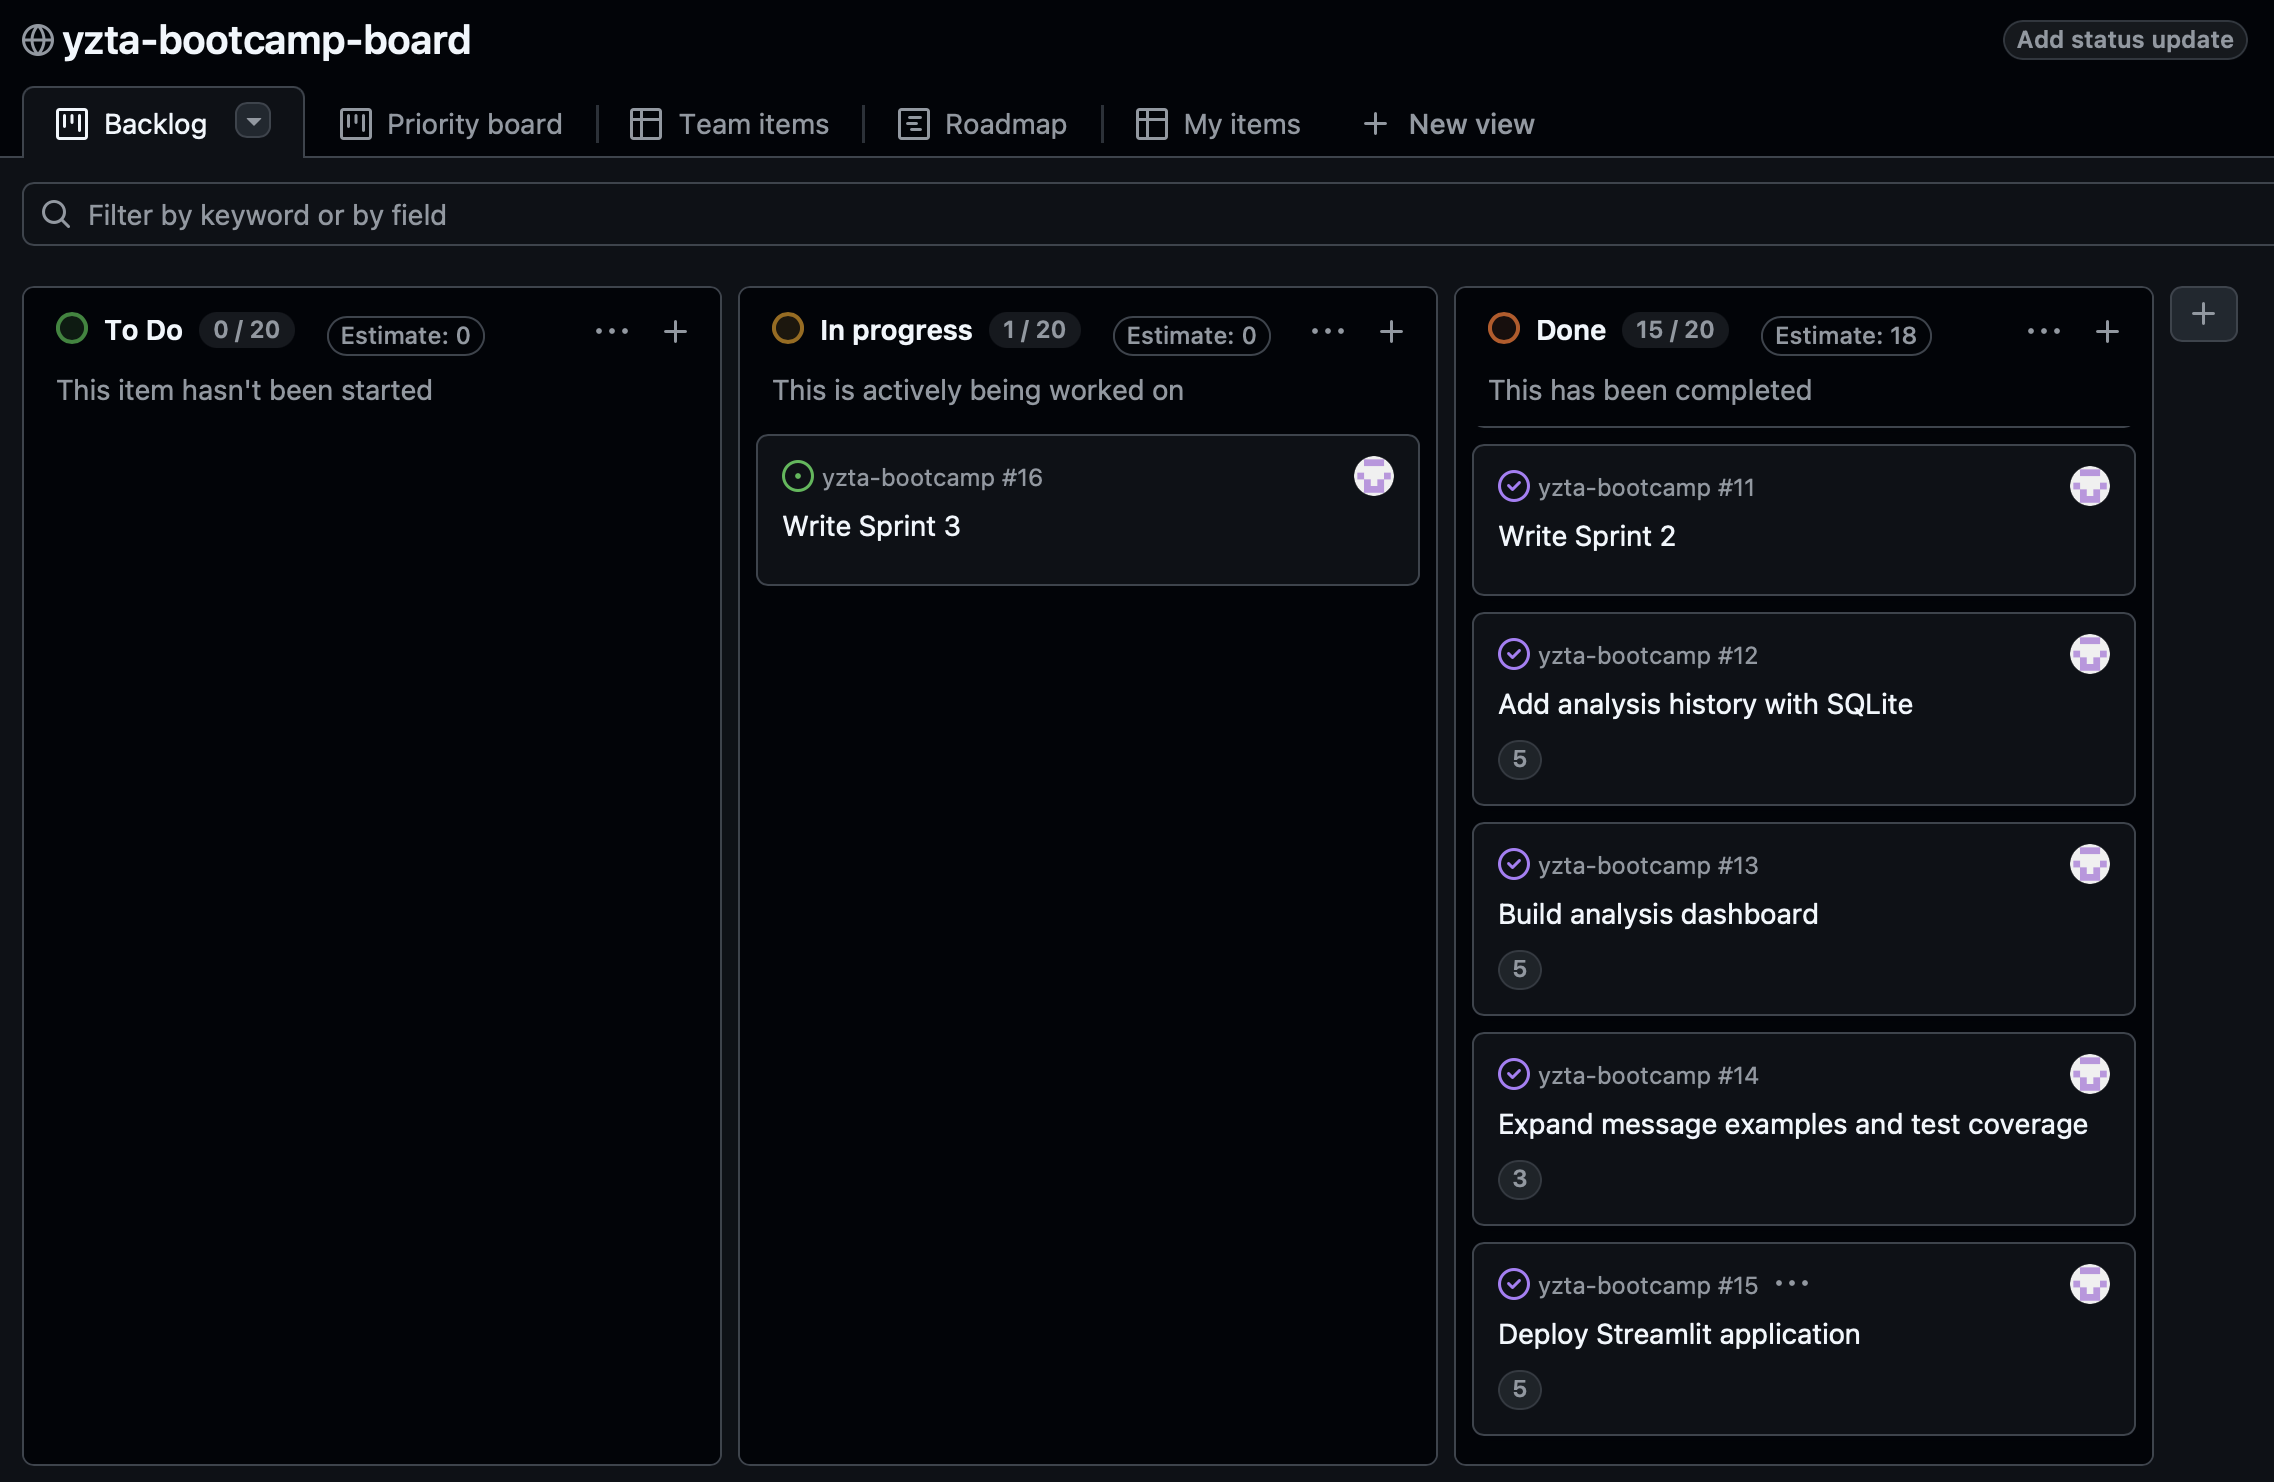
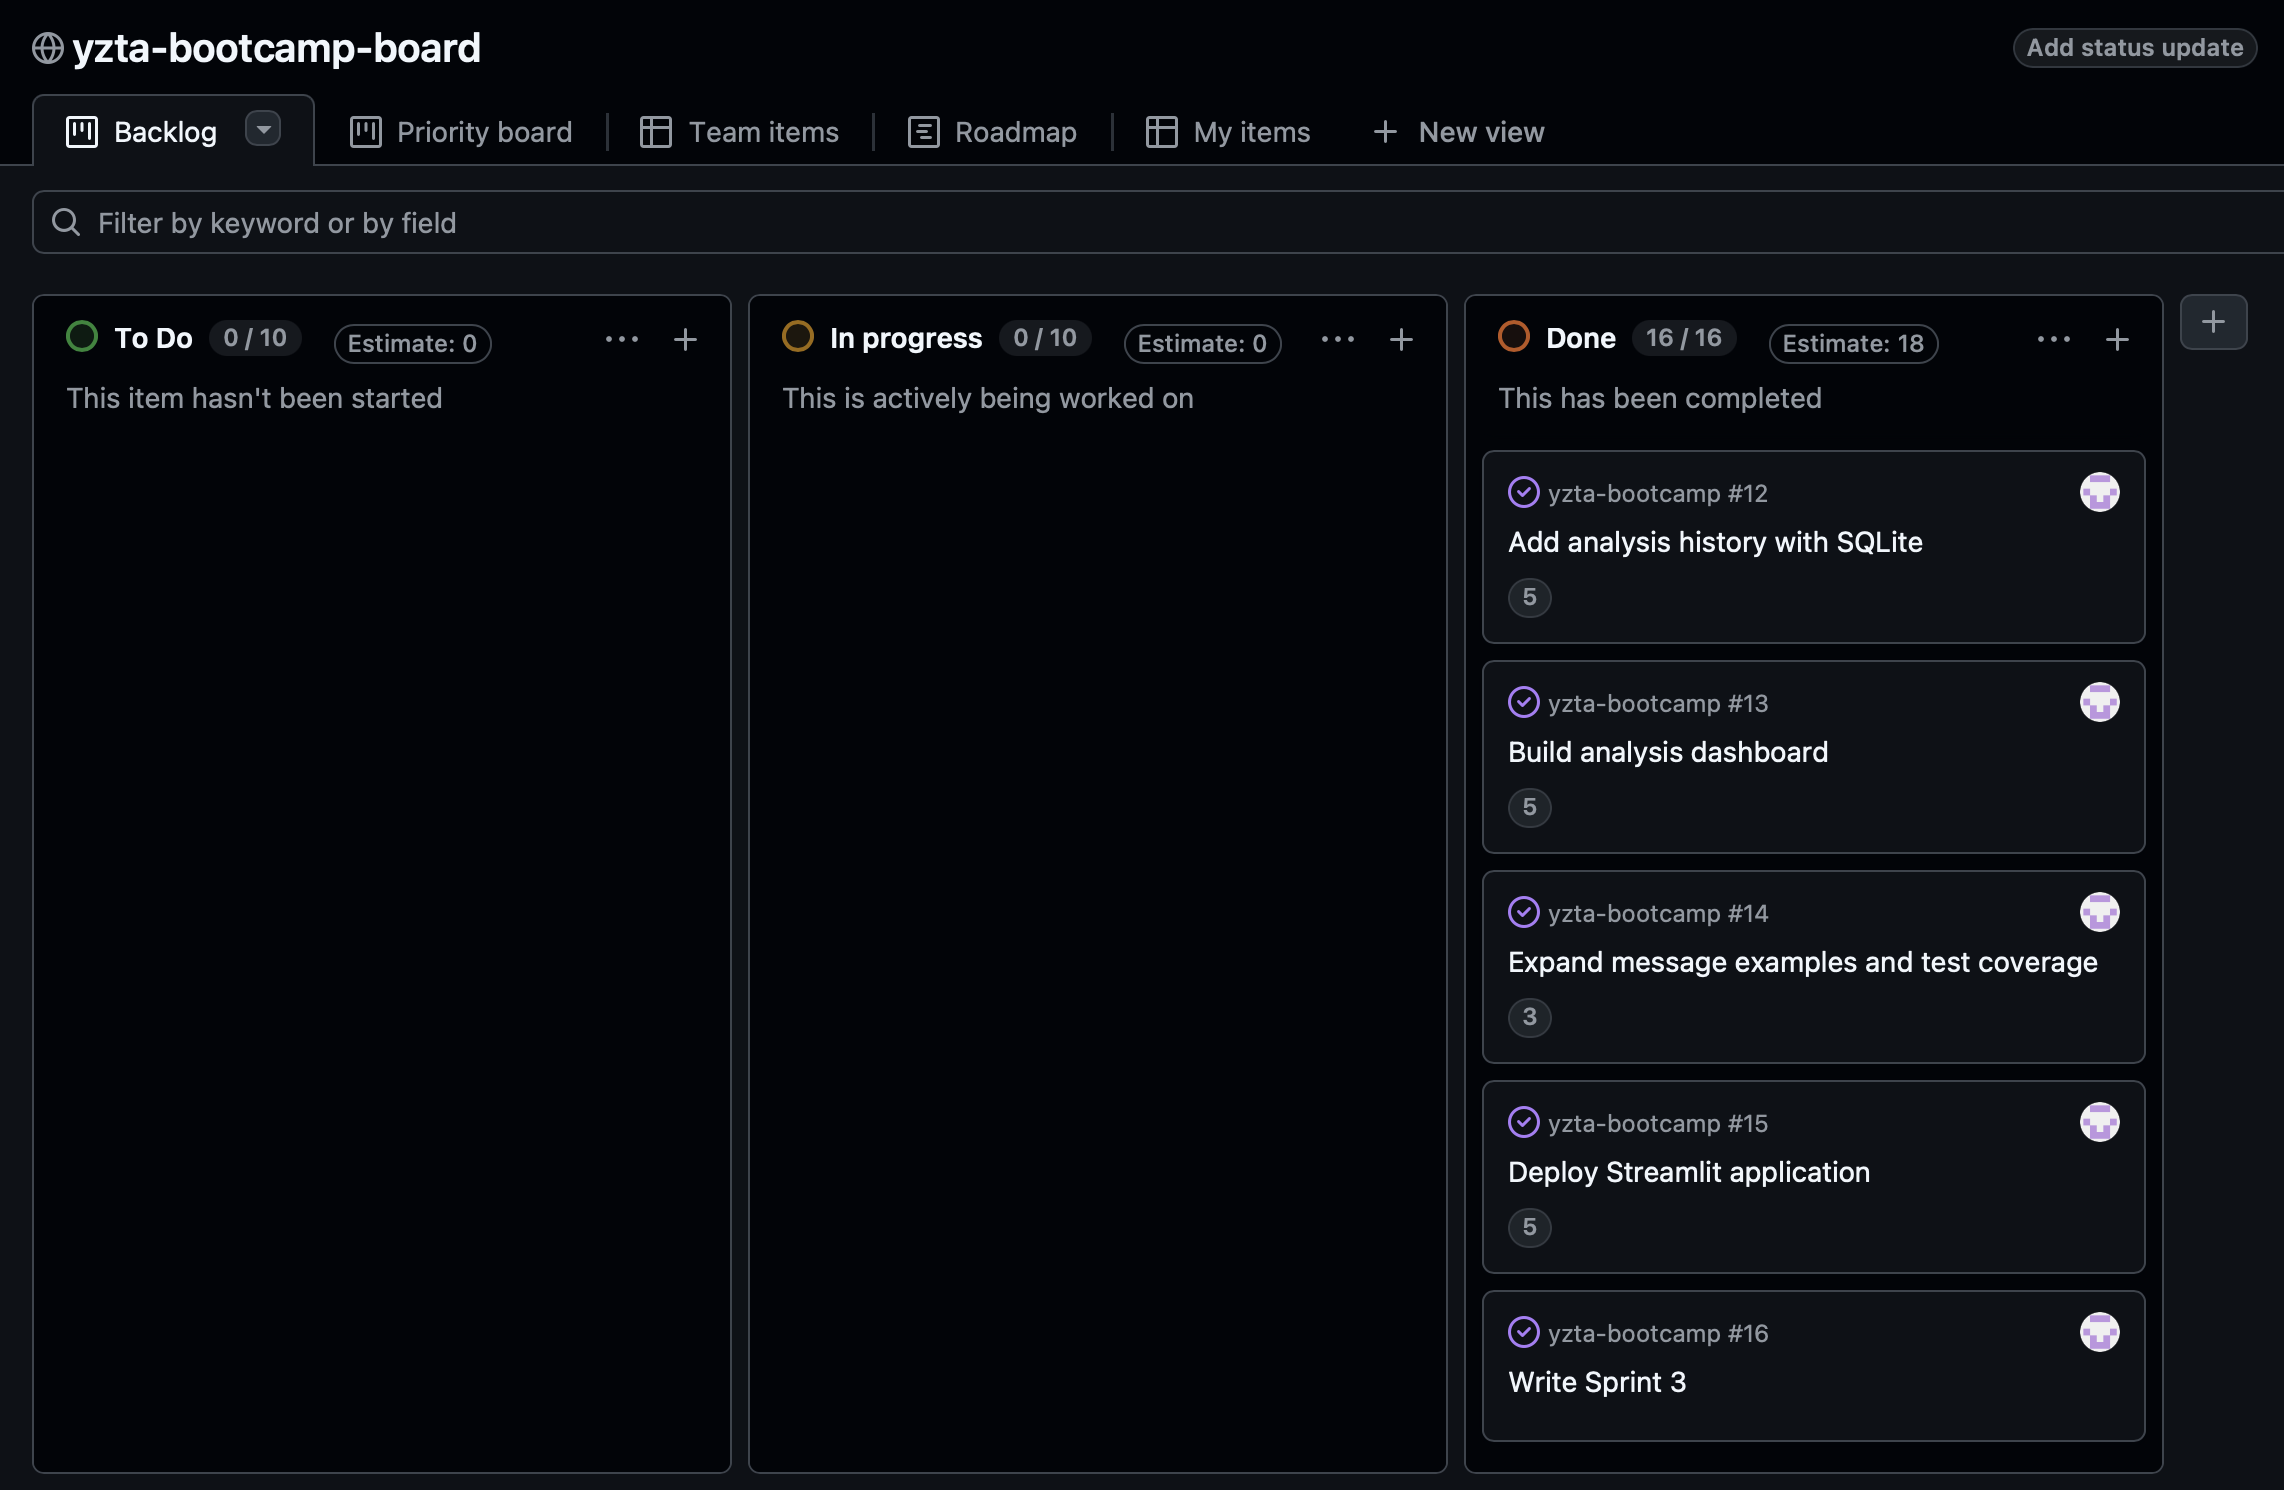
add backlog_3.png and definition of done and content improvements

Changed region(s): [[0.0, 0.0, 1.0, 0.9933], [0.8742, 0.0, 0.9991, 0.0621], [0.9055, 0.4035, 0.9367, 0.4966]]

diff --git a/README.md b/README.md
@@ -138,7 +138,7 @@ python -m unittest discover -v
 | 3  | Kullanıcı olarak mesaj için bir risk skoru görmek istiyorum, böylece mesajın ne kadar tehlikeli olabileceğini anlayabilirim.                                          | High    | Done  |
 | 4  | Kullanıcı olarak mesajın neden riskli olduğunu madde madde görmek istiyorum, böylece sonucu daha kolay anlayabilirim.                                                 | High    | Done  |
 | 5  | Kullanıcı olarak güvenli aksiyon önerileri almak istiyorum, böylece şüpheli mesaj karşısında ne yapmam gerektiğini öğrenebilirim.                                     | Medium  | Done  |
-| 6  | Takım olarak sprint sürecini GitHub üzerinde belgelemek istiyoruz, böylece proje gelişimi düzenli şekilde takip edilebilir.                                           | High    | Done  |
+| 6  | Proje yürütücüsü olarak sprint sürecini GitHub üzerinde belgelemek istiyorum, böylece proje gelişimi düzenli şekilde takip edebilirim.                                           | High    | Done  |
 | 7  | Kullanıcı olarak daha detaylı bir risk analizi görmek istiyorum, böylece mesajdaki farklı dolandırıcılık sinyallerini anlayabilirim.                                  | High    | Done  |
 | 8  | Kullanıcı olarak mesajın bağlamını değerlendiren yapay zekâ destekli bir yorum görmek istiyorum, böylece yalnızca anahtar kelimelere dayanmayan bir sonuç alabilirim. | High    | Done  |
 | 9  | Kullanıcı olarak sistemin farklı güvenli ve şüpheli mesajlarla test edilmesini istiyorum, böylece analiz sonuçlarının güvenilirliğini değerlendirebilirim.            | High    | Done  |
@@ -153,12 +153,24 @@ Product Backlog numaraları kullanıcı story'lerini temsil etmektedir. GitHub I
 
 ---
 
+## Definition of Done
+
+Bir çalışmanın tamamlanmış kabul edilmesi için:
+
+* İlgili özelliğin geliştirilmiş ve çalışır durumda olması
+* Gerekli testlerin başarıyla tamamlanması
+* Kodların GitHub repository'sine yüklenmesi
+* İlgili task veya story'nin Sprint Board üzerinde Done durumuna taşınması
+* Gerekli proje dokümantasyonunun güncellenmesi
+
+---
+
 <details>
 <summary><h1>Sprint 1</h1></summary>
 
 ## Backlog Düzeni ve Story Seçimleri
 
-Backlog'umuz Sprint 1 kapsamında öncelikli olarak yapılması gereken story'lere göre düzenlenmiştir. İlk sprintte amaç, ürünün temel yapısını kurmak ve kullanıcıdan alınan mesaj metni üzerinden basit bir risk analizi yapabilen ilk prototipi geliştirmektir.
+Backlog Sprint 1 kapsamında öncelikli olarak yapılması gereken story'lere göre düzenlenmiştir. İlk sprintte amaç, ürünün temel yapısını kurmak ve kullanıcıdan alınan mesaj metni üzerinden basit bir risk analizi yapabilen ilk prototipi geliştirmektir.
 
 Sprint başına tahmin edilen puan sayısını geçmeyecek şekilde story seçimleri yapılmıştır. Story başına çıkan tahmin puanı, toplam sprint puanının yarısından az tutulmuştur. Sprint 1 kapsamında toplam 20 puanlık çalışma planlanmıştır.
 
@@ -178,9 +190,9 @@ Story'ler yapılacak işlere, yani task'lere bölünmüştür. Sprint 1 kapsamı
 
 ## Daily Scrum
 
-Sprint 1 sürecinde ekip içi iletişim ağırlıklı olarak mesajlaşma kanalı üzerinden yürütülmüştür.
+Sprint 1 sürecindeki iletişim ağırlıklı olarak mesajlaşma kanalı üzerinden yürütülmüştür.
 
-Bu süreçte repository paylaşımı, Scrum Master ve Product Owner rollerinin belirlenmesi, ürün fikrinin netleştirilmesi, toplantı planlaması ve ekip bilgileri formu için gerekli bilgilerin toplanması gibi konular konuşulmuştur.
+Bu süreçte repository paylaşımı, rollerin belirlenmesi, ürün fikrinin netleştirilmesi, toplantı planlaması ve gerekli proje bilgilerinin hazırlanması gibi konular ele alınmıştır.
 
 Daily Scrum / sprint iletişimi ekran görüntüsü aşağıda paylaşılmıştır:
 
@@ -220,7 +232,7 @@ Sprint 1 ürün çıktısı kapsamında hedeflenen özellikler:
 
 ## Sprint Review
 
-Sprint Review sırasında Sprint 1 kapsamında yapılan çalışmalar değerlendirilmiştir. Takım, ürün fikrini netleştirmiş ve ilk sprint için kapsamın temel risk analizi ile sınırlı tutulmasına karar vermiştir.
+Sprint Review sırasında Sprint 1 kapsamında yapılan çalışmalar değerlendirilmiştir. Ürün fikri netleştirilmiş ve ilk sprint kapsamının temel risk analiziyle sınırlı tutulmasına karar verilmiştir.
 
 Alınan kararlar:
 
@@ -228,7 +240,7 @@ Alınan kararlar:
 * İlk sprintte kapsamın temel prototip ve risk analizi akışıyla sınırlı tutulmasına karar verilmiştir.
 * Kullanıcıdan mesaj metni alınması, risk sinyallerinin tespit edilmesi ve risk skoru üretilmesi Sprint 1’in ana hedefi olarak belirlenmiştir.
 * Gelişmiş yapay zekâ açıklamaları, analiz geçmişi ve dashboard özelliklerinin sonraki sprintlerde ele alınmasına karar verilmiştir.
-* Verilerin kalıcı olarak saklanması için JSON veya SQLite kullanımının sonraki sprintte değerlendirilmesine karar verilmiştir.
+* Verilerin kalıcı olarak saklanması için JSON veya SQLite kullanımının ilerleyen sprintlerde değerlendirilmesine karar verilmiştir.
 * Çıkan ürünün ilk prototip akışında temel analiz mantığı için bir problem görülmemiştir.
 * Ekstra eklenmesi gereken özellikler sonraki sprint için backlog'a aktarılmıştır.
 
@@ -240,12 +252,12 @@ Sprint Review katılımcısı:
 
 ## Sprint Retrospective
 
-Sprint Retrospective sırasında takımın Sprint 1 sürecindeki çalışma düzeni değerlendirilmiş ve sonraki sprint için iyileştirme alanları belirlenmiştir.
+Sprint Retrospective sırasında Sprint 1 sürecindeki çalışma düzeni değerlendirilmiş ve sonraki sprint için iyileştirme alanları belirlenmiştir.
 
 Alınan kararlar:
 
-* Takım içindeki görev dağılımıyla ilgili düzenleme yapılması kararı alınmıştır.
-* Tahmin puanları gözden geçirilmeli ve sprint planlama toplantılarında gerekli geri bildirimlerin developer tarafından verildiğine emin olunmalıdır.
+* Sprint görevlerinin daha küçük ve takip edilebilir parçalara ayrılmasına karar verilmiştir.
+* Tahmin puanlarının sprint planlama aşamasında daha ayrıntılı değerlendirilmesi gerektiği belirlenmiştir.
 * Daily Scrum ekran görüntülerinin daha düzenli şekilde saklanmasına karar verilmiştir.
 * Sprint board güncellemelerinin daha sık yapılması gerektiği belirlenmiştir.
 * Test mesajları için ayrılan eforun artırılmasına karar verilmiştir.
@@ -474,5 +486,4 @@ Alınan kararlar:
 * Canlıya alma öncesinde yerel testlerin tamamlanmasının deployment sürecini kolaylaştırdığı görülmüştür.
 * Sprint board'un sprint boyunca güncel tutulmasının tamamlanan işlerin ve toplam puanın izlenmesini kolaylaştırdığı değerlendirilmiştir.
 * Ürünün temel hedeflerini karşılayan çalışır ve internet üzerinden erişilebilir sürümünün tamamlandığı sonucuna varılmıştır.
-
 </details>
